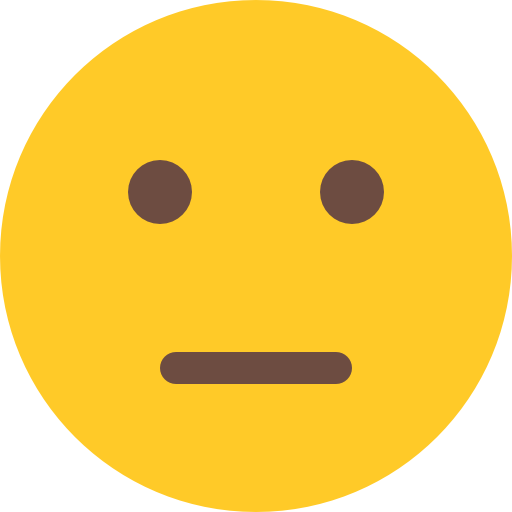
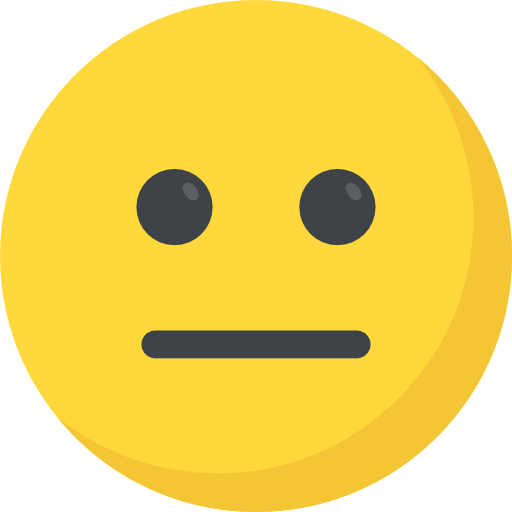
Update CSS style for rating buttons

Changed region(s): [[0.25, 0.625, 0.75, 0.75], [0.5625, 0.3125, 0.75, 0.5], [0.25, 0.3125, 0.4375, 0.5]]

diff --git a/src/Nitrilon/Nitrilon.Web/index.html b/src/Nitrilon/Nitrilon.Web/index.html
@@ -4,16 +4,18 @@
     <meta charset="UTF-8">
     <meta name="viewport" content="width=device-width, initial-scale=1.0">
     <title>Nitrilon Rating</title>
+    <link rel="stylesheet" href="./CSS/style.css">
+    <script src="./JS/script.js" defer></script>
 </head>
 <body>
     <header>
         <h1>Del din mening med os!</h1>
     </header>
-    <main>
-            <img src="./IMG/unhappy.png" alt="unhappy">
-            <img src="./IMG/neutral.png" alt="Neutral">
-            <img src="./IMG/smile.png" alt="Happy">
-    </main>
+    <section>           
+        <img id="1" src="./IMG/angry.png" alt="unhappy">
+        <img id="2" src="./IMG/neutral.png" alt="Neutral">
+        <img id="3" src="./IMG/smile.png" alt="Happy">
+    </section>
     
 </body>
 </html>

diff --git a/src/Nitrilon/Nitrilon.Web/CSS/style.css b/src/Nitrilon/Nitrilon.Web/CSS/style.css
@@ -1,0 +1,26 @@
+body {
+    display: flex;
+    flex-direction: column;
+    justify-content: center;
+    align-items: center;
+    height: 80vh;
+}
+
+h1 {
+    font-size: 4em;
+    font-family: 'Roboto', sans-serif;
+}
+
+section {
+    display: flex;
+}
+
+section img {
+    width: 50%;
+    margin: 2%;
+    transition: transform 0.05s;
+}
+
+section img:active {
+    transform: rotateZ(5deg) scale(1.1);
+}
